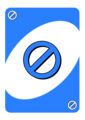
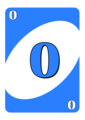
added images for 0s and proper card back

Changed region(s): [[0.2588, 0.325, 0.7294, 0.675], [0.0706, 0.075, 0.2118, 0.175], [0.8, 0.825, 0.9176, 0.925]]

diff --git a/src/Containers/CompHandContainer.js b/src/Containers/CompHandContainer.js
@@ -7,7 +7,7 @@ class CompHandContainer extends Component {
     return (
       <div className="ui cards CompHandContainer">
 
-          {this.props.comphand.map((c,inx) => <Card key={inx} data={c}/>)}
+          {this.props.comphand.map((c,inx) => <Card key={inx} />)}
 
       </div>
     )
